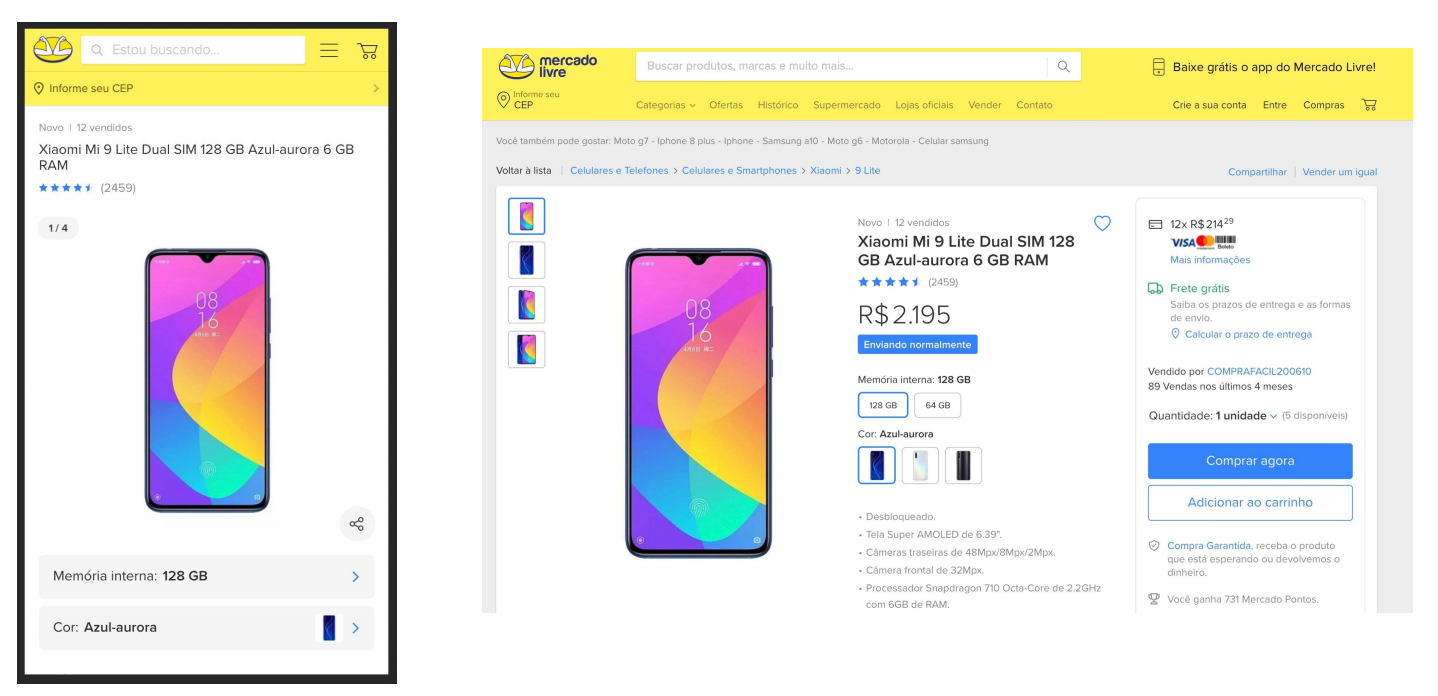
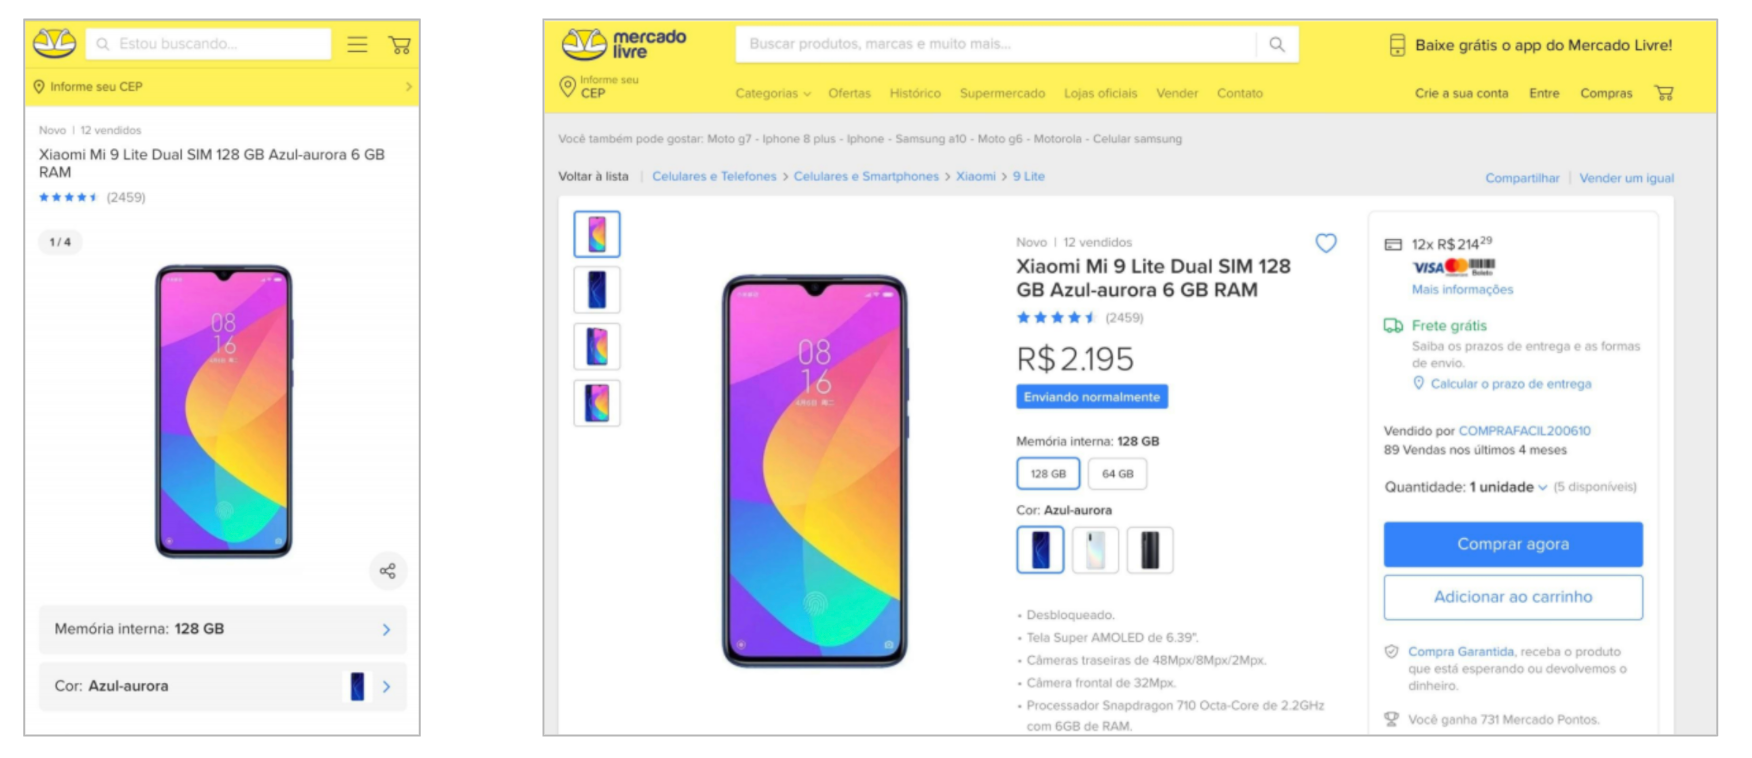
Changes to pdp screenshot.

diff --git a/src/site/content/en/blog/how-mercadolibre-optimized-web-vitals/index.md b/src/site/content/en/blog/how-mercadolibre-optimized-web-vitals/index.md
@@ -70,22 +70,13 @@ Experience Report](https://developers.google.com/web/tools/chrome-user-experienc
 product detail pages had a poor FID. Based on that information, they decided to focus their efforts
 on improving the interactivity for product pages in the site.
 
-<div class="w-columns">
 <figure class="w-figure">
-  <img src="meli-pdp-mobile.png" class="w-screenshot"
-       alt="Mobile version of a Mercado Libre product detail page." width="141">
+  <img src="meli-pdp.png" class="w-screenshot"
+       alt="Mobile and Desktop versions of a Mercado Libre product detail page.">
    <figcaption class="w-figcaption">
-      Mobile version of a Mercado Libre product detail page.
+      Mobile and Desktop versions of a Mercado Libre product detail page.
   </figcaption>     
 </figure>
-<figure class="w-figure">
-  <img src="meli-pdp-desktop.png" class="w-screenshot"
-       alt="Desktop versions of a Mercado Libre product detail page.">
-   <figcaption class="w-figcaption">
-      Desktop versions of a Mercado Libre product detail page.
-  </figcaption>     
-</figure>
-</div>
 
 These pages allow the user to perform complex interactions, so the goal was interactivity
 optimization, without interfering with valuable functionality.
